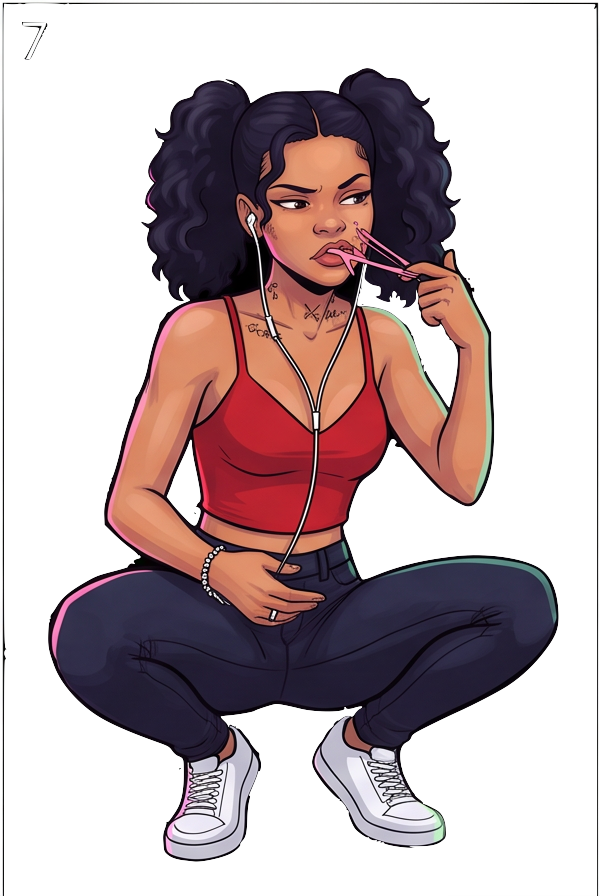
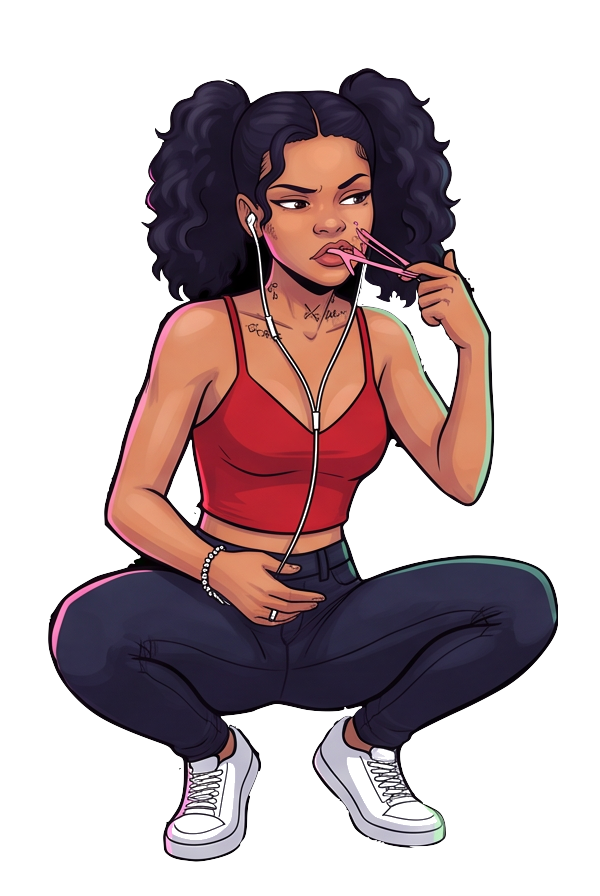
Clean gum frames loaded, frame 7 white bg removed, faster animation timing, cache-bust v2

diff --git a/index.html b/index.html
@@ -151,7 +151,7 @@ loadImg('sierra_backq_a', 'assets/sierra_backq_a.png');
 loadImg('sierra_backq_b', 'assets/sierra_backq_b.png');
 loadImg('sierra_squat',   'assets/sierra_squat.png');
 // Sierra bubble gum idle animation frames
-for (let _gi = 1; _gi <= 8; _gi++) loadImg(`sierra_gum_${_gi}`, `assets/sierra_gum_${_gi}.png`);
+for (let _gi = 1; _gi <= 8; _gi++) loadImg(`sierra_gum_${_gi}`, `assets/sierra_gum_${_gi}.png?v=2`);
 // Naomi directional sprites (base + walk frames a/b + squat)
 loadImg('naomi_front',    'assets/naomi_front.png');
 loadImg('naomi_back',     'assets/naomi_back.png');
@@ -670,9 +670,9 @@ function update(ts) {
   }
 
   // ─── Sierra gum idle animation ────────────────────────────────────────────
-  const GUM_FRAME_DUR  = [0.55, 0.45, 0.55, 0.55, 0.65, 0.22, 0.55, 0.90];
+  const GUM_FRAME_DUR  = [0.30, 0.22, 0.28, 0.28, 0.32, 0.12, 0.28, 0.50];
   const GUM_TRIGGER    = 5.0;
-  const GUM_FADE_SPEED = 2.8;  // crossfade speed (1/s) — ~0.36s transition
+  const GUM_FADE_SPEED = 3.5;  // faster fade — ~0.28s
 
   if (P.crouch && !NPC.moving && !NPC.gumActive && !NPC.gumFading) {
     NPC.idleTimer += dt;
